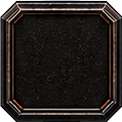
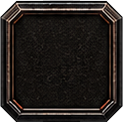
paradigmen stillshit

diff --git a/ui_sections/character_section.py b/ui_sections/character_section.py
@@ -214,7 +214,7 @@ def _apply_nine_slice_frame_for_rect(window, parent, rect_cfg, frame_cfg):
     bg.setGeometry(x, y, target_w, target_h)
     bg.setPixmap(rendered)
     bg.setAttribute(Qt.WA_TransparentForMouseEvents, True)
-    bg.lower()
+    # Keep tiny frame above panel background frame; header label is created after and stays above this.
     bg.show()
     return {
         "active": True,
@@ -492,9 +492,24 @@ def render_character_paradigm_panel(window, character_screen, attribute_panel, d
 
     headers_cfg = panel_cfg.get("column_headers", {})
     headers_enabled = isinstance(headers_cfg, dict) and bool(headers_cfg.get("enabled", False))
-    header_items_cfg = headers_cfg.get("items", {}) if isinstance(headers_cfg.get("items", {}), dict) else {}
+    use_data_text = not isinstance(headers_cfg, dict) or bool(headers_cfg.get("use_data_text", True))
+    raw_header_items = headers_cfg.get("items", {})
+    header_items_cfg = raw_header_items if isinstance(raw_header_items, dict) else {}
     header_frame_cfg = headers_cfg.get("frame", {}) if isinstance(headers_cfg.get("frame", {}), dict) else {}
-    header_items = list(header_items_cfg.values()) if headers_enabled else []
+    header_items = []
+    if headers_enabled:
+        if isinstance(raw_header_items, list):
+            header_items = [item for item in raw_header_items if isinstance(item, dict)]
+        elif isinstance(header_items_cfg, dict):
+            generic_keys = sorted(
+                [k for k in header_items_cfg.keys() if str(k).startswith("column_")],
+                key=lambda x: window._safe_int(str(x).split("_")[-1], 9999),
+            )
+            if generic_keys:
+                header_items = [header_items_cfg[k] for k in generic_keys if isinstance(header_items_cfg.get(k), dict)]
+            else:
+                # Legacy fallback for older JSON structures.
+                header_items = [item for item in header_items_cfg.values() if isinstance(item, dict)]
 
     for idx, col_info in enumerate(analysis.get("columns", [])[:col_count]):
         col_x = start_x + idx * (col_w + column_gap)
@@ -505,6 +520,14 @@ def render_character_paradigm_panel(window, character_screen, attribute_panel, d
             if not isinstance(item_cfg, dict) or not bool(item_cfg.get("enabled", False)):
                 name_label = None
             else:
+                override_text = str(item_cfg.get("text", "") or "").strip()
+                if use_data_text:
+                    # Data-driven mode: keep paradigm names sourced from character/cache data.
+                    # Optional JSON text is only a fallback when no data name is available.
+                    visible_text = name_text if str(name_text).strip() else override_text
+                else:
+                    # Visual-override mode: JSON text can intentionally replace data text.
+                    visible_text = override_text if override_text else name_text
                 header_rect = {
                     "x": window._safe_int(item_cfg.get("x", col_x), col_x),
                     "y": window._safe_int(item_cfg.get("y", header_y), header_y),
@@ -517,7 +540,7 @@ def render_character_paradigm_panel(window, character_screen, attribute_panel, d
                     base_bg = "transparent" if bool(mini_frame_state.get("transparent_background_when_active", True)) else "rgba(0,0,0,35)"
                     name_label = QLabel(panel)
                     name_label.setGeometry(header_rect["x"], header_rect["y"], header_rect["w"], header_rect["h"])
-                    name_label.setText(str(item_cfg.get("text", name_text)))
+                    name_label.setText(visible_text)
                     name_label.setAlignment(Qt.AlignCenter)
                     name_label.setStyleSheet(
                         "QLabel {"
@@ -532,7 +555,7 @@ def render_character_paradigm_panel(window, character_screen, attribute_panel, d
                 else:
                     name_label = QLabel(panel)
                     name_label.setGeometry(header_rect["x"], header_rect["y"], header_rect["w"], header_rect["h"])
-                    name_label.setText(str(item_cfg.get("text", name_text)))
+                    name_label.setText(visible_text)
                     name_label.setAlignment(Qt.AlignCenter)
                     name_label.setStyleSheet(
                         "QLabel {"